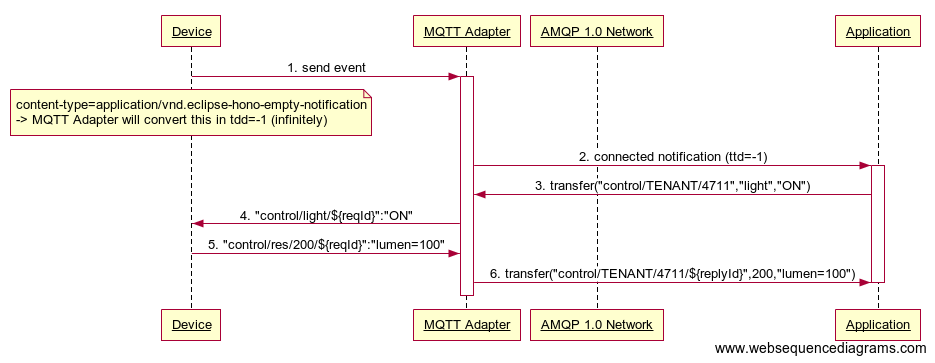
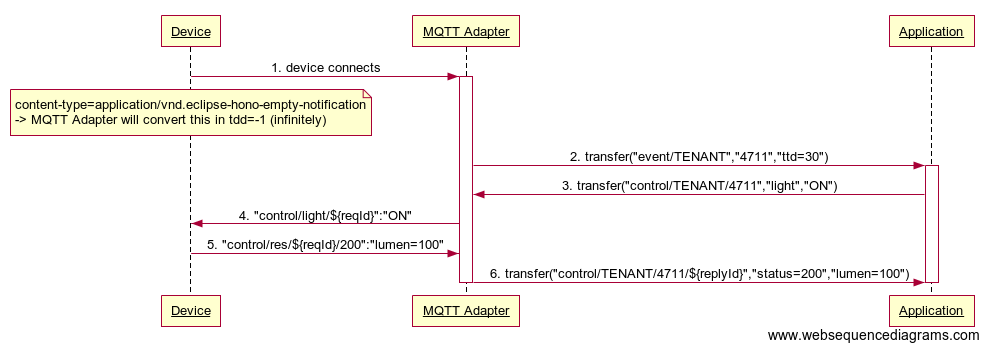
Review changes.

diff --git a/site/content/concepts/command-and-control.md b/site/content/concepts/command-and-control.md
@@ -11,46 +11,41 @@ This concept refers to the first implementation of Command and Control in Hono 0
 
 ## Command & Control over HTTP Adapter
 
-The following sequence diagram gives an overview of a device connected via HTTP, which gets a command from the business application as soon as it gets online.
+The following sequence diagram gives an overview of a device connected via HTTP, which gets a command from the business application as soon as it gets online. The application and the adapter connect to the AMQP Network, which forwards the transfer - for clarity this is not shown in the diagram. 
  
 ![Command & Control over HTTP Adapter](../command_control_concept_http.png) 
 
 With the `hono-ttd`-[notification]({{< relref "device-notifications.md" >}}) in (1) the device indicates it will stay connected for max. 30 seconds. This notification will be consumed by the application (2) and it now tries to send a command (3) to the device at the given address `control/TENANT/4711` (If the device is not connected, the adapter has not established a link for it and the application would get no credits so send the command).
 
-The HTTP Adapter gets the command and writes it in the response of the devices `send event` (4). The HTTP Adapter sets the following response headers and optionally a payload.
+The HTTP Adapter gets the command and writes it in the response of the devices `send event` (4), if the request was successful (status 2xx). The HTTP Adapter sets the following response headers and optionally a payload.
 
 | Response Header              | Description         |
 | :---------------------       |  :----------------- |
 | `hono-cmd`               | The command, which should be executed by the device. It could need further data from the payload. |
-| `hono-cmd-req-id`      | Id, which is needed in the command response to find the                     |
+| `hono-cmd-req-id`      | Id, which is needed in the command response to correlate the response to the request.       |
 
  The `hono-cmd` is the command, which need to be known by the device. The device can handle it and may also use the payload. The `hono-cmd-req-id` is needed for the command response to correlate it. It will be send back from the device to the adapter in a following operation (5). 
  
 {{% note %}}
-This is, what is implemented in Hono 0.6. At the moment the Application does not get a response back from the device as shown in (5) and (6). 
+This is, what is implemented in Hono 0.6. At the moment the Application does not get a response back from the device as shown in (5), (6) and (7). 
 {{% /note %}}
 
 The device needs to respond to the command (5), to inform the business application about the success. It typically follows the way described in [HTTP Adapter]({{< relref "user-guide/http-adapter.md" >}}) for telemetry and events with the following changes:
 
 Authenticated Device:
 
-* URI: `/control/res` 
+* URI: `/control/res/${reqId}/${status}` 
 * Method: `POST`
 
 Unauthenticated Device:
 
-* URI: `/control/res/${tenantId}/${deviceId}` 
+* URI: `/control/res/${tenantId}/${deviceId}/${reqId}/${status}` 
 * Method: `PUT`
 
-Further:
+For authenticated and unauthenticated devices:
 
-* Request Headers:
-  * `hono-cmd-req-id`: The value of the response-header (with same name) of the command event.
 * Request Body:
   * (optional) Arbitrary payload as response data.
-* Status Codes: 
-  * 2xx: Indicating success; the codes are dependent on the adapter and device, which handles the command.
-  * 4xx: Indicating failure; the codes are dependent on the adapter and device, which handles the command.     
 
 The HTTP Adapter will then send this response back to the Business Application (6). 
 
@@ -60,17 +55,17 @@ IMPORTANT: **Not implemented in Hono 0.6 and just a DRAFT**
 
 When the (authenticated) device connects to the MQTT Adapter and wants to get commands, it subscribes to 
 
-* `control/${command}/${hono-cmd-req-id}`
+* `control/req/${command}/${hono-cmd-req-id}`
 
 The response of the command will be send by the device to 
 
-* `control/res/${status}/${hono-cmd-req-id}`
+* `control/res/${hono-cmd-req-id}/${status}`
 
 
 If the device is not authenticated:
 
-* `control/${tenant-id}/${device-id}/${command}/${hono-cmd-req-id}` (request subscription topic)
-* `control/res/${tenant-id}/${device-id}/${status}/${hono-cmd-req-id}` (response topic) 
+* `control/req/${tenant-id}/${device-id}/${command}/${hono-cmd-req-id}` (request subscription topic)
+* `control/res/${tenant-id}/${device-id}/${hono-cmd-req-id}/${status}` (response topic) 
 
 
 ![Command & Control over MQTT Adapter](../command_control_concept_mqtt.png) 

diff --git a/site/content/api/Command-And-Control-API.md b/site/content/api/Command-And-Control-API.md
@@ -57,7 +57,7 @@ The following table provides an overview of the properties set on a Command's re
 | *correlation-id* | yes | *properties* | *message-id* | MUST contain the correlation ID used to match the command message with the response message containing the result of execution on the device. |
 | *status* | yes | *application-properties* | *integer* | MUST indicate the status of the execution. See table below for possible values. |
 
-The status property must contain a valid HTTP status code:
+The status property must contain a valid HTTP status code: <a name="status"></a>
 
 | Code | Description |
 | :--- | :---------- |
